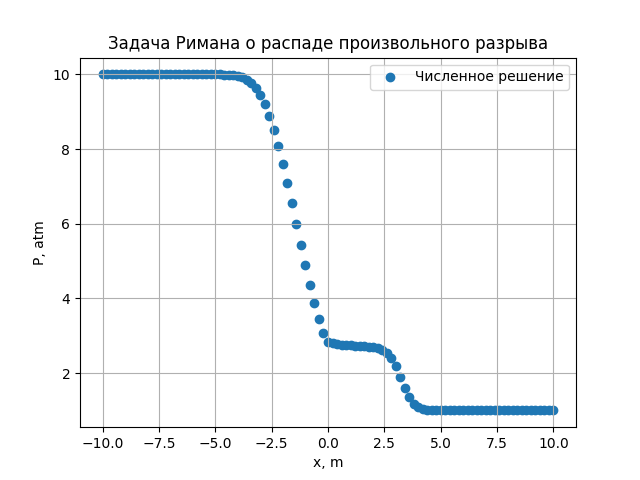
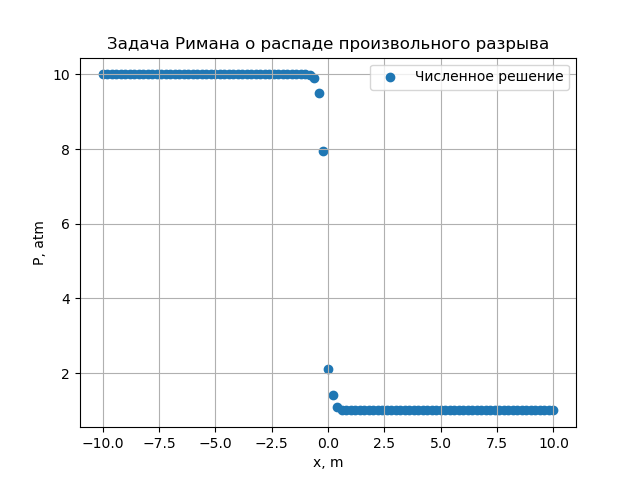
refactoring

diff --git a/tests/test_TwoDimEqThermalCond.cpp b/tests/test_TwoDimEqThermalCond.cpp
@@ -70,16 +70,19 @@ double coefG(double tau, double hy, double lambda_ = 1.e-4){
 
 TEST(THERMAL, CONDUCTIVITY){
 
+    const std::string FILE_PATH = __FILE__;
+    const std::string DIR_PATH = FILE_PATH.substr(0, FILE_PATH.size() - 28);
+
     const double xLeftBound = 0;
     const double xRightBound = 1;
     const double yLeftBound = 0;
     const double yRightBound = 1;
     const double tStart = 0;
     const double tEnd = 1;
-    const double tStep = 0.001;
-    double t = tStart;
+    const double tStep = 0.0001;
+    double t = tStart + tStep;
 
-    const uint NX = 150;
+    const uint NX = 100;
     const uint NY = NX;
     std::vector<double> x = getLinspace(xLeftBound, xRightBound, NX);
     double hx = (xRightBound - xLeftBound) / (NX-1);
@@ -87,28 +90,36 @@ TEST(THERMAL, CONDUCTIVITY){
     double hy = (yRightBound - yLeftBound) / (NY-1);
 
 
-
     const double lambda_ = 1.e-4;
 
 
     Slae::Matrix::ThreeDiagonalMatrix matrix = Slae::Matrix::ThreeDiagonalMatrix::Zero(NY);
 
-    std::vector<double> a(NX, coefA(tStep, hx, hy));
-    std::vector<double> b(NX, coefB(tStep, hx));
-    std::vector<double> c(NX, coefC(tStep, hx));
-    std::vector<double> d(NX, 0.); // нулевые начальные условия
-    std::vector<double> f(NX, coefF(tStep, hy));
-    std::vector<double> g(NX, coefG(tStep, hy));
+    const double a =  coefA(tStep, hx, hy);
+    const double b = coefB(tStep, hx);
+    const double c = coefC(tStep, hx);
+    const double f = coefF(tStep, hy);
+    const double g = coefG(tStep, hy);
 
     std::vector<double> dTilda(NX, 0.);
+
+    std::fstream file;
+    file.open(DIR_PATH + "data_files/twoDimEqThermalCond.txt", std::ios::out);
 
     // Генерация сетки и начальные условия
     std::vector<std::vector<double>> solution(NY, std::vector<double>(NX));
     for(int j = 0; j < NY; ++j){
         for(int i = 0; i < NX; ++i){
             solution[j][i] = initCondition(x[i], y[j]);
+            file << solution[j][i] << " ";
         }
+        file<<"\n";
     }
+
+    std::vector<double> buff(NY-2, 0.);
+
+
+    //region Цикл по времени
 
     int inv = 1;
     while(t < tEnd){
@@ -122,53 +133,88 @@ TEST(THERMAL, CONDUCTIVITY){
         }
 
         if(inv % 2 == 1){
-            for(int j = 1; j < NY - 1; ++j){
-                d[0] = leftBoundCondY(x[j], t);
-                dTilda[0] = d[0];
-                matrix.fill_row(0, 0, 1, 0);
-                for(int i = 1; i < NX - 1; ++i){
-                    d[i] = solution[j][i];
-                    dTilda[i] = d[i] - g[i] * solution[j-1][i] - f[i] * solution[j+1][i];
-                    matrix.fill_row(i, c[i], a[i], b[i]);
+            for(int k = 1; k < NY - 1; ++k){
+//                dTilda[0] = solution[k][0];
+//                matrix.fill_row(0, 0, 1, 0);
+
+                dTilda[1] = solution[k][1] - g * solution[k-1][1] - f * solution[k+1][1] - c * solution[k][0];
+                matrix.fill_row(1, 0, a, b);
+
+                for(int m = 2; m < NX - 2; ++m){
+                    dTilda[m] = solution[k][m] - g * solution[k - 1][m] - f * solution[k + 1][m];
+                    matrix.fill_row(m, c, a, b);
                 }
-                d[NY - 1] = rightBoundCondY(x[j], t);
-                dTilda[NY - 1] = d[NY - 1];
+                dTilda[NX - 2] = solution[k][NX - 2] - g * solution[k-1][NX - 2] - f * solution[k+1][NX - 2] - b*solution[k][NX-1];
+                matrix.fill_row(NY - 2, c, a, 0);
+
+                dTilda[NX - 1] = solution[k][NX - 1];
                 matrix.fill_row(NY - 1, 0, 1, 0);
-                solution[j] = Slae::Solvers::solveThreeDiagonal(matrix, dTilda);
+
+                solution[k] = Slae::Solvers::solveThreeDiagonal(matrix, dTilda);
             }
         }
         else{
-            for(int j = 1; j < NY - 1; ++j){
-                d[0] = leftBoundCondX(y[j], t);
-                dTilda[0] = d[0];
+            for(int m = 1; m < NX - 1; ++m){
+                dTilda[0] = solution[0][m];
                 matrix.fill_row(0, 0, 1, 0);
-                for(int i = 1; i < NX - 1; ++i){
-                    d[i] = solution[i][j];
-                    dTilda[i] = d[i] - c[i] * solution[j-1][i] - b[i] * solution[i][j+1];
-                    matrix.fill_row(i, g[i], a[i], f[i]);
+
+                dTilda[1] = solution[1][m] - c * solution[1][m-1] - b * solution[1][m+1] - g * solution[0][m];
+                matrix.fill_row(0, 0, a, f);
+
+                for(int k = 2; k < NY - 2; ++k){
+                    dTilda[k] = solution[m][k] - c * solution[m][k - 1] - b * solution[m][k + 1];
+                    matrix.fill_row(k, g, a, f);
                 }
-                d[NX - 1] = rightBoundCondX(y[j], t);
-                dTilda[NY - 1] = d[NY - 1];
+                dTilda[NY - 2] = solution[NY - 2][m] - c * solution[NY - 2][m-1] - b * solution[NY - 2][m+1] - f*solution[NY-1][m];
+                matrix.fill_row(NY - 2, 0, g, a);
+
+                dTilda[NY - 1] = solution[NY - 1][m];
                 matrix.fill_row(NY - 1, 0, 1, 0);
-                solution[j] = Slae::Solvers::solveThreeDiagonal(matrix, dTilda);
+
+                buff = Slae::Solvers::solveThreeDiagonal(matrix, dTilda);
+
+                for(int k = 0; k < NY; ++k){
+                    solution[k][m] = buff[k];
+                }
             }
         }
+
+        if(inv % 100 == 0) {
+            for (int j = 0; j < NY; ++j) {
+                for (int i = 0; i < NX; ++i) {
+                    solution[j][i] = initCondition(x[i], y[j]);
+                    file << solution[j][i] << " ";
+                }
+                file << "\n";
+            }
+        }
+
         t += tStep;
         ++inv;
     }
 
+//    file.close();
+
+
+
+    //region Аналитическое решение
     std::vector<std::vector<double>> anSol(NY, std::vector<double>(NX));
     for(int j = 0; j < NY; ++j){
         for(int i = 0; i < NX; ++i){
             anSol[j][i] = analyticalSolution(x[i], y[j], t);
         }
     }
+    //endregion
 
+
+    //region Сравнение по норме
     std::vector<double> diff(NY);
     for(int i = 0; i < NY; ++i){
         diff[i] = Norm<double, NormType::FirstNorm>::get_norm(anSol[i] - solution[i]);
     }
 
     std::cout << Norm<double, NormType::FirstNorm>::get_norm(diff) << std::endl;
+
+    //endregion
 
 }

diff --git a/python/TwoDimEqThermalCond.py b/python/TwoDimEqThermalCond.py
@@ -1,0 +1,96 @@
+import sys
+from math import *
+import numpy as np
+import matplotlib.pyplot as plt
+import seaborn as sns
+
+def threeDiagProg(a_, b_, c_, d_):
+    n_ = len(b_)
+    p_, q_ = np.zeros(n_), np.zeros(n_)
+    c_ = c_ + [0]
+    p_[0] = c_[0] / b_[0]
+    q_[0] = d_[0] / b_[0]
+    for i in range(1, n_):
+        p_[i] = c_[i] / (b_[i] - (a_[i - 1] * p_[i - 1]))
+        q_[i] = (d_[i] - (a_[i - 1] * q_[i - 1])) / (b_[i] - (a_[i - 1]*p_[i - 1]))
+
+    x_ = np.zeros(n_)
+    m_ = n_ - 1
+
+    x_[m_] = q_[-1]
+    for i in range(n_ - 2, -1, -1):
+        x_[i] = q_[i] - (x_[i + 1] * p_[i])
+    return x_
+
+
+lm = 1e-4
+u_an = lambda t, x, y: cos(pi*x)*sin(5*pi*y)*exp(-50*(pi**2)*lm*t)
+u0x = lambda t, y: sin(5*pi*y)*exp(-50*(pi**2)*lm*t)
+u1x = lambda t, y: -sin(5*pi*y)*exp(-50*(pi**2)*lm*t)
+
+
+u = np.zeros([])
+
+def calc(N, Nx, Ny):
+    global u
+    err_max = 0
+    tt = np.linspace(0, 1, N+1)
+    xx = np.linspace(0, 1, Nx+1)
+    yy = np.linspace(0, 1, Ny+1)
+
+    tau = np.diff(tt)[0]
+    hx = np.diff(xx)[0]
+    hy = np.diff(yy)[0]
+
+    u = np.zeros([N+1, Nx+1, Ny+1])
+
+    for i in range(Nx + 1):
+        for j in range(Ny + 1):
+            u[0, i, j] = cos(pi*xx[i]) * sin(5*pi*yy[j])
+
+    u[:, 0, :] = [[u0x(t, y) for y in yy] for t in tt]
+    u[:, Nx, :] = [[u1x(t, y) for y in yy] for t in tt]
+
+    a = (-50*lm/(hx**2)) - (2*lm/(hy**2)) - (1/tau)
+    b = lm/(hy**2)
+    c = 25*lm/(hx**2)
+
+    a2 = [0] + [c for m in range(1, Nx)]
+    a1 = [0] + [b for m in range(1, Nx)]
+    a0 = [1] + [a for l in range(1, Nx)] + [1]
+    a_1 = [b for m in range(1, Nx)] + [0]
+    a_2 = [c for m in range(1, Nx)] + [0]
+
+    for n in range(N):
+        if n % 2 == 0:
+            for j in range(1, Ny):
+                d = [u0x(tt[n+1], yy[j])] + [-(u[n, i, j]/tau)-(b*u[n+1, i, j-1])-(b*u[n, i, j+1]) for i in range(1, Nx)] + [u1x(tt[n+1], yy[j])]
+                u[n+1, :, j] = threeDiagProg(a_2, a0, a2, d)
+        else:
+            for i in range(1, Nx):
+                d = [0] + [-(u[n, i, j]/tau)-(c*u[n+1, i-1, j])-(c*u[n, i+1, j]) for j in range(1, Ny)] + [0]
+                u[n+1, i, :] = threeDiagProg(a_1, a0, a1, d)
+
+        real = np.cos(np.pi * xx) * np.sin(5 * np.pi * yy) * np.exp(- np.pi * np.pi * 50 * 1e-4 * (tt[n+1] + 1) * tau)
+        err = np.linalg.norm(real - u[n+1])
+        if err > err_max:
+            err_max = err
+
+    return err
+
+errors = []
+for i in [10, 20, 40, 80, 120, 150]:
+    errors.append(calc(100, i, i))
+
+# print(errors)
+x = np.log([10, 20, 40, 80, 120, 150])
+y = np.log(errors)
+p = np.polyfit(x, y, 1)
+print(p)
+plt.plot(x, y, label=f'k = {p[0]}')
+plt.xlabel('log(x)')
+plt.ylabel('log(err)')
+plt.legend()
+plt.grid()
+plt.show()
+# sns.heatmap(u[-1, :, :])

diff --git a/src/compMath/pythonPlots/twoDimEqThermalCond/plot.py b/src/compMath/pythonPlots/twoDimEqThermalCond/plot.py
@@ -1,0 +1,41 @@
+import matplotlib.pyplot as plt
+import numpy as np
+import imageio
+
+data = np.loadtxt(f'/Users/arseniy/study/CompMath/ComputationalMathematics/tests/data_files/twoDimEqThermalCond.txt')
+def create_frame(t):
+    fig = plt.figure(figsize=(6, 6))
+    plt.imshow(data[data.shape[1]*(t):data.shape[1]*(t+1)])
+    plt.colorbar()
+    plt.title(f'step {t}',
+              fontsize=14)
+
+    plt.savefig(f'img_{t}.png',
+                transparent = False,
+                facecolor = 'white'
+                )
+    plt.close()
+
+
+time = [i for i in range(0, int(data.shape[0]/data.shape[1]))]
+
+
+for t in time:
+    create_frame(t)
+
+frames = []
+for t in time:
+    image = imageio.v2.imread(f'img_{t}.png')
+    frames.append(image)
+
+
+imageio.mimsave('./example.gif', # output gif
+                frames,          # array of input frames
+                fps = 5)         # optional: frames per second
+
+print(data.shape)
+
+print(data[0:data.shape[1]] - data[-data.shape[1]:])
+
+# plt.imshow(data)
+# plt.show()

diff --git a/python/Riman.py b/python/Riman.py
@@ -9,19 +9,19 @@ L = 10 # m, x=[-L, L]
 # left side
 v_left = 0 # m/s
 rho_left = 13 # kg/m3
-p_left = 10 # atm
+p_left = 10**6 # atm
 
 # right side
 v_right = 0 # m/s
 rho_right = 1.3 # kg/m3
-p_right = 1 # atm
+p_right = 10**5 # atm
 
 # v = (rho, u, e)  w = (rho, rho*u, rho*e)
 init_conds = [rho_left, v_left, p_left/((gamma-1)*rho_left), rho_right, v_right, p_right/((gamma-1)*rho_right)]
 
-time_end = 2
+time_end = 0.015
 cfl_max = 0.01
-tau = 1e-3
+tau = 1.e-7
 h = 0.2
 
 x_limits = [-L, L]
@@ -103,7 +103,7 @@ print(sol.shape)
 nx = math.floor((x_limits[1] - x_limits[0])/h)
 x_arr = np.array([x_limits[0] + i * h for i in range(nx + 1)])
 
-plt.scatter(x_arr, sol[:, 2000, 3], label=r'Численное решение')
+plt.scatter(x_arr, sol[:, 100, 3], label=r'Численное решение')
 plt.legend()
 plt.title('Задача Римана о распаде произвольного разрыва')
 plt.grid()

diff --git a/tests/test_planeParallelFiltering.cpp b/tests/test_planeParallelFiltering.cpp
@@ -43,7 +43,7 @@ double getCoefD(double phi, double rho0, double cf, double p, double tau){
 TEST(PLANEPARALLELFIKTERING, TASK3){
     double Tmax = 10 * 24 * 60 * 60; // время расчета в секундах
     double Tstop = Tmax;
-    double TStep = 60; // шаг по времени в секундах
+    double TStep = 60*60; // шаг по времени в секундах
     double t = 0;
     uint Nt = std::ceil(Tstop / TStep); // количество узлов по времени
 
@@ -59,7 +59,7 @@ TEST(PLANEPARALLELFIKTERING, TASK3){
     double phi = 0.2; // пористость пласта
     double rho0 = 1000; // kg/m^3
     double cf = 1.e-4; // atm^(-1)
-    double mu = 1.e-3; // Pa * s
+    double mu = 1.e-3*9.87*1.e-6; // Pa * s
     double k = 1.e-14; // m^2
 
 

diff --git a/src/compMath/solvers/ThreeDiadonalSolver.cpp b/src/compMath/solvers/ThreeDiadonalSolver.cpp
@@ -16,7 +16,7 @@ namespace Slae::Solvers
             throw SlaeBaseExceptionCpp(buff.str());
         }
 
-        matrix.check_diagonal_domimance();
+//        matrix.check_diagonal_domimance();
 
         int n = col.size();
 
